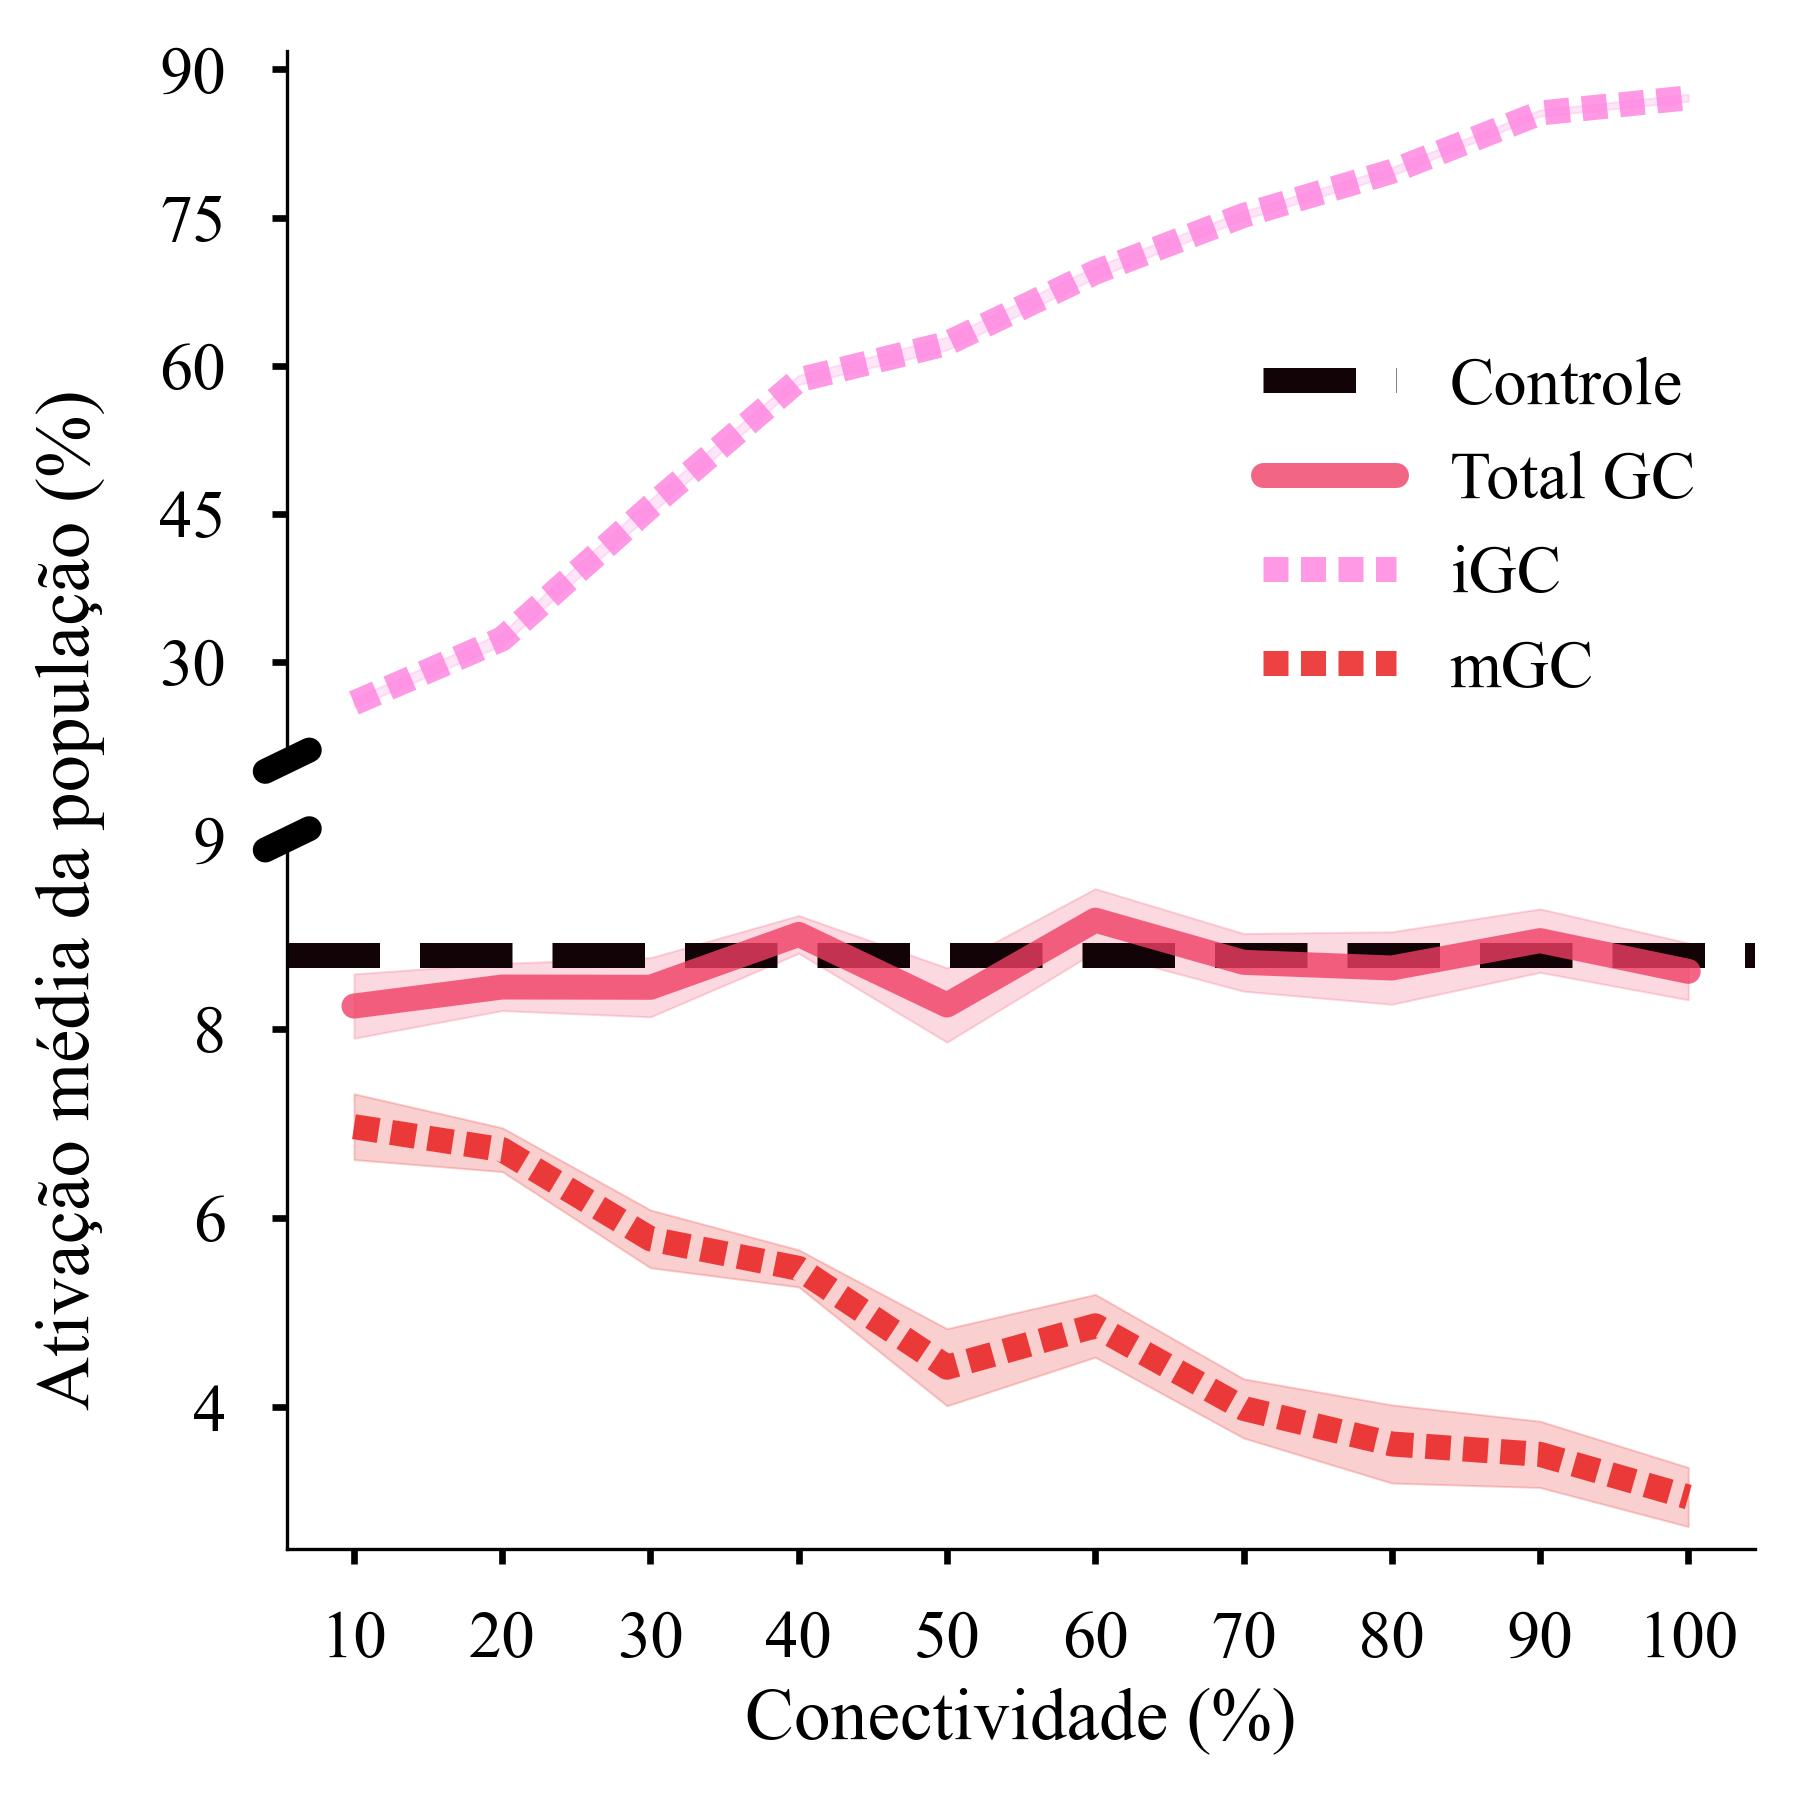
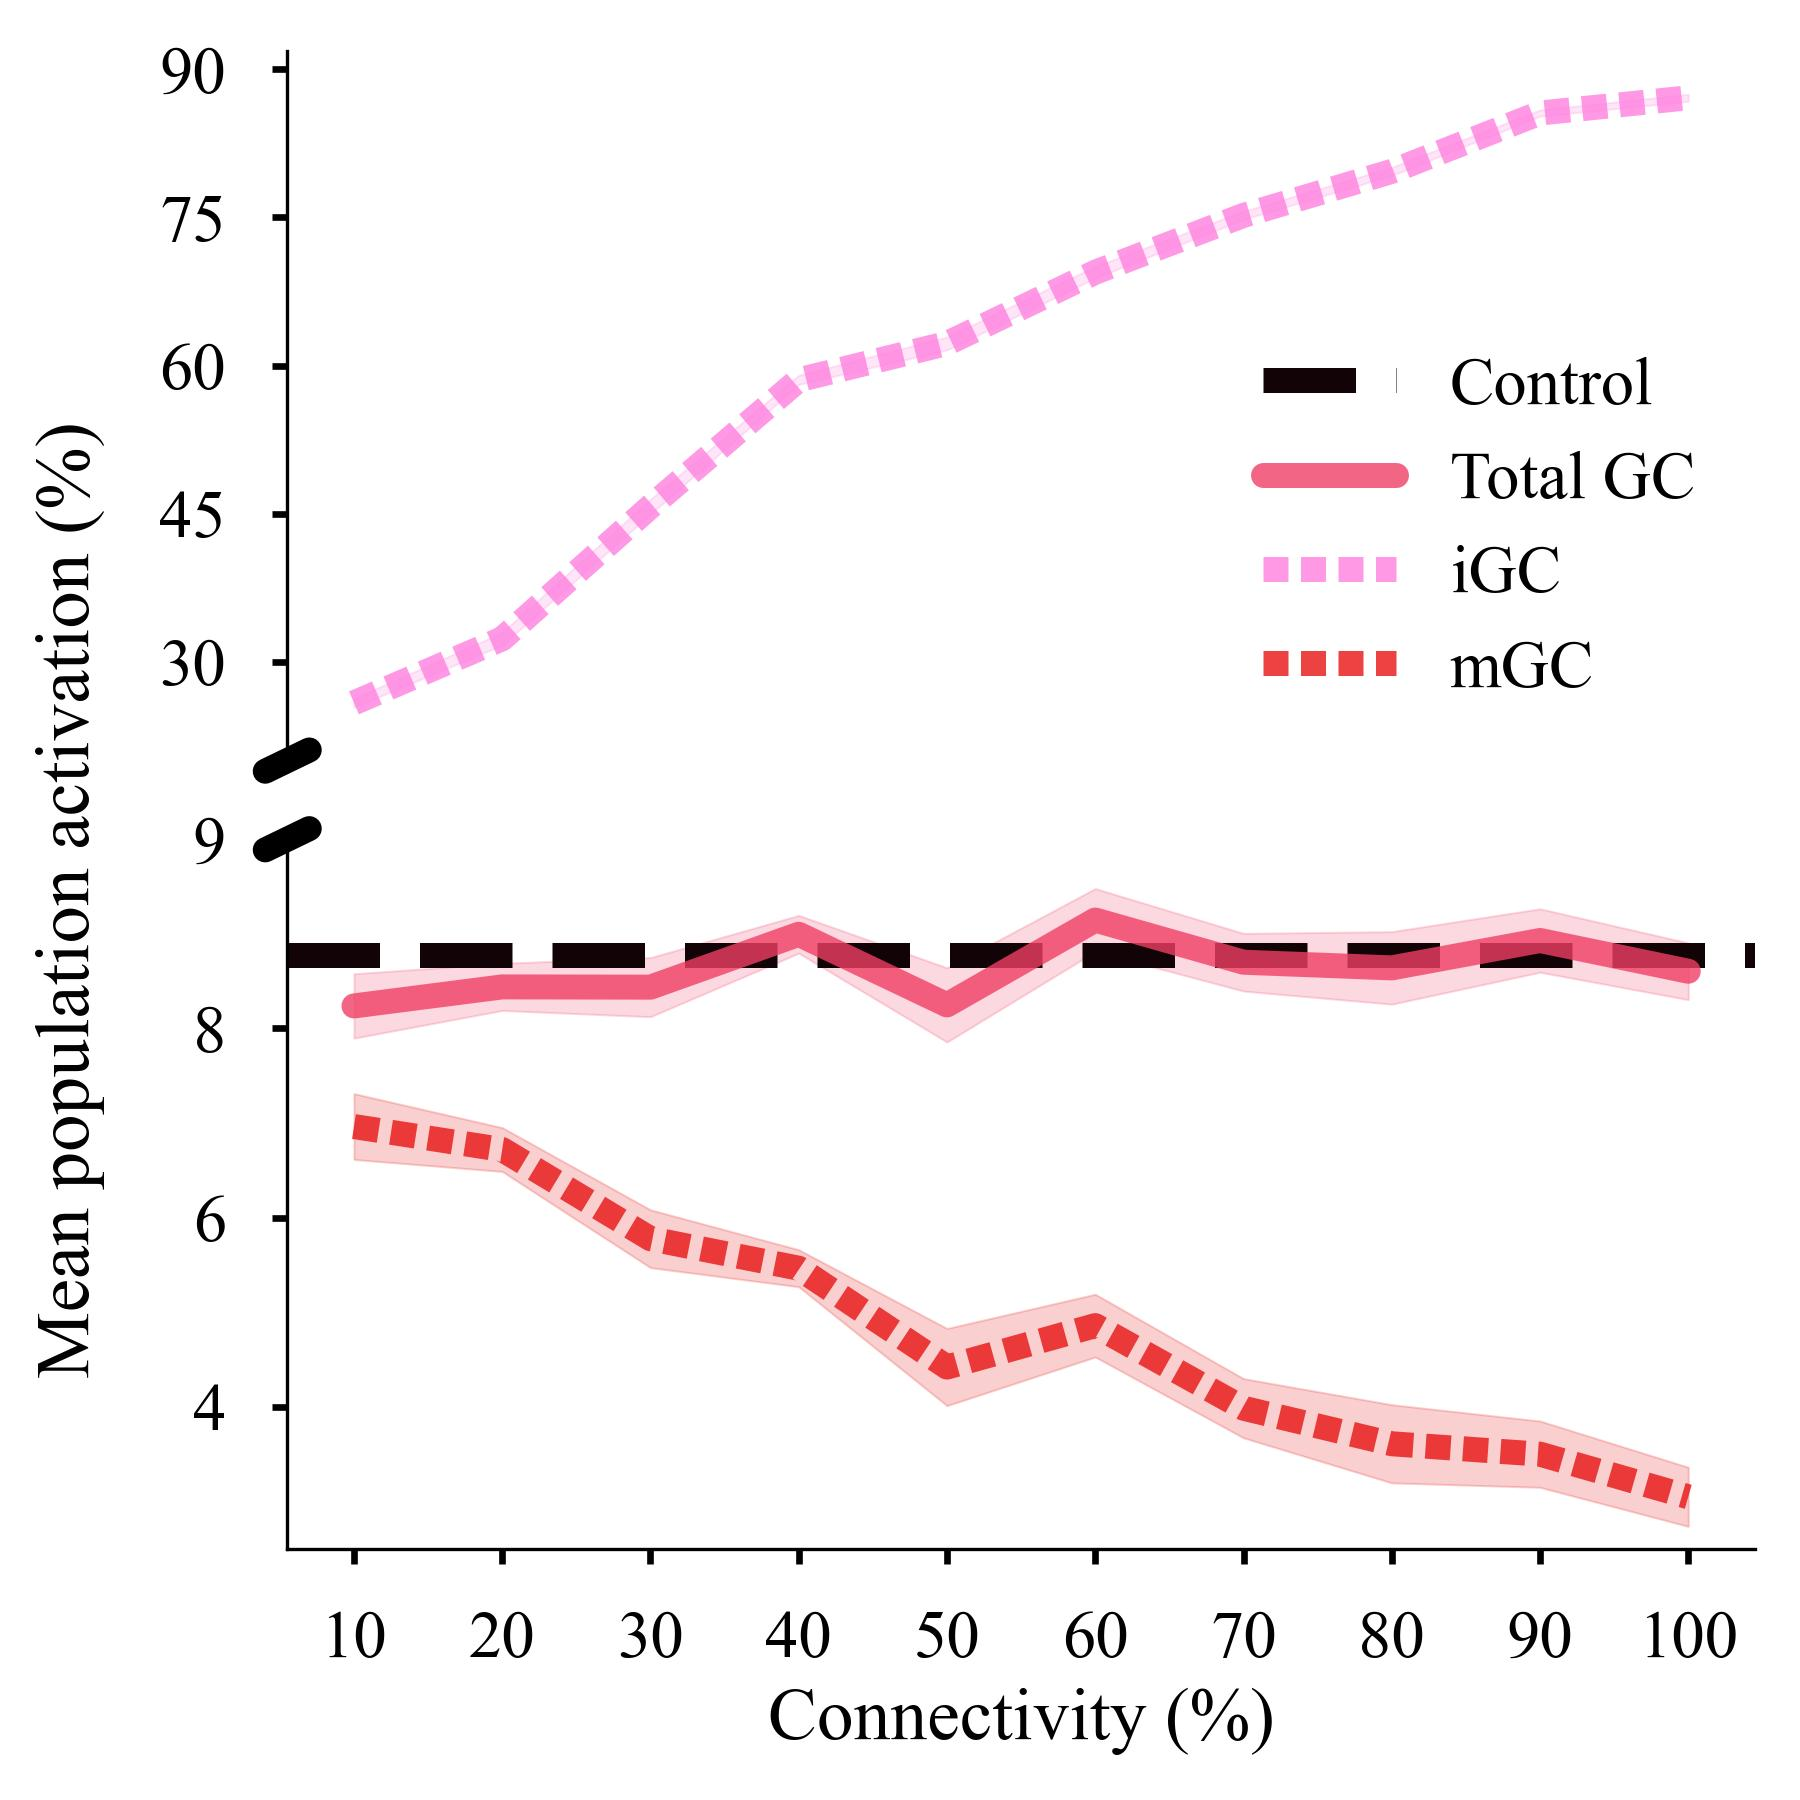
en plots

Changed region(s): [[0.0, 0.2178, 0.0622, 0.7778], [0.4044, 0.9333, 0.7156, 0.9644]]

diff --git a/scripts/data/pca3_variance_partitioning.py b/scripts/data/pca3_variance_partitioning.py
@@ -133,8 +133,8 @@ def plot():
         ax.fill_between(x, r2[p] - sem[p], r2[p] + sem[p], color=pred_colors[p], alpha=0.15)
     ax.fill_between(x, r2['full'] - sem['full'], r2['full'] + sem['full'],
                     color=pred_colors['full'], alpha=0.15)
-    ax.set_xlabel('Conectividade (%)')
-    ax.set_ylabel('R² (var. pCA3 explicada)')
+    ax.set_xlabel('Connectivity (%)')
+    ax.set_ylabel('R² (explained pCA3 var.)')
     ax.set_xticks(range(10, 101, 10))
     ax.set_ylim(0, 1)
     ax.spines['right'].set_visible(False)
@@ -146,10 +146,10 @@ def plot():
     stack_data   = [np.clip(uniq[p], 0, None) for p in PREDICTORS]
     stack_data.append(np.clip(shared, 0, None))
     stack_colors = [pred_colors[p] for p in PREDICTORS] + [SHARED_COLOR]
-    stack_labels = [f'Exclusivo {p.upper()}' for p in PREDICTORS] + ['Compartilhado']
+    stack_labels = [f'Unique {p.upper()}' for p in PREDICTORS] + ['Shared']
     ax.stackplot(x, *stack_data, labels=stack_labels, colors=stack_colors, alpha=0.8)
-    ax.set_xlabel('Conectividade (%)')
-    ax.set_ylabel('R² particionado')
+    ax.set_xlabel('Connectivity (%)')
+    ax.set_ylabel('Partitioned R²')
     ax.set_xticks(range(10, 101, 10))
     ax.set_ylim(0, 1)
     ax.spines['right'].set_visible(False)

diff --git a/scripts/data/avg_activity_ca3.py b/scripts/data/avg_activity_ca3.py
@@ -60,8 +60,9 @@ def avg_activity_ca3():
   fig, ax = plt.subplots(figsize=(6, 6), dpi=300)
 
   ax.yaxis.set_major_locator(MaxNLocator(nbins=15))
-  formatter = FuncFormatter(lambda y, _: f'{y*100:.0f}')
+  formatter = FuncFormatter(lambda y, _: f'{y*100.0:.1f}')
   ax.yaxis.set_major_formatter(formatter)
+  print(cads)
 
   cads = [cads[group] for group in groups]
   std_errors_c = [std_errors_c[group] for group in groups]
@@ -79,10 +80,15 @@ def avg_activity_ca3():
   ax.spines['right'].set_visible(False)
   ax.spines['top'].set_visible(False)
 
+  max_val = np.max(cads_arr)
+  min_val = np.min(cads_arr)
+  pad = 0.25
+  ax.set_ylim((1-pad) * min_val, (1+pad) * max_val)
+
   ax.legend(frameon=False)
 
-  plt.ylabel('Ativação média da população (%)')
-  plt.xlabel('Conectividade (%)')
+  plt.ylabel('Mean population activation (%)')
+  plt.xlabel('Connectivity (%)')
 
   xlabels = range(10, 101, 10)
   plt.xticks(ticks=range(len(xlabels)), labels=xlabels)

diff --git a/scripts/data/pattern_separation_overlap.py b/scripts/data/pattern_separation_overlap.py
@@ -73,7 +73,7 @@ def plot():
     sems, sems_i, sems_m = np.array(sems), np.array(sems_i), np.array(sems_m)
 
     fig, ax = plt.subplots(figsize=(6, 6), dpi=300)
-    ax.axhline(y=control_sd, color=cell_colors['control'], linestyle='--', label='controle')
+    ax.axhline(y=control_sd, color=cell_colors['control'], linestyle='--', label='Control')
     ax.axhline(y=0, color='gray', linestyle='--')
 
     alpha = 0.8
@@ -89,8 +89,8 @@ def plot():
 
     ax.spines['right'].set_visible(False)
     ax.spines['top'].set_visible(False)
-    ax.set_xlabel('Conectividade (%)')
-    ax.set_ylabel('Poder de separação de padrões (SP, %)')
+    ax.set_xlabel('Connectivity (%)')
+    ax.set_ylabel('Pattern separation: power (SP, %)')
     ax.set_xticks(range(10, 101, 10))
     ax.legend(loc='upper left', bbox_to_anchor=(0, 1.15), frameon=False)
     plt.tight_layout()

diff --git a/scripts/data/pattern_separation.py b/scripts/data/pattern_separation.py
@@ -132,7 +132,7 @@ def in_similarity():
       if group in groups_to_skip:
         alpha = 0.05
 
-    label = 'Controle' if 'control' in group else f'Neurogênese: {int(float(group.split("_")[1])*100)}% de conectividade'
+    label = 'Control' if 'control' in group else f'Neurogenesis: {int(float(group.split("_")[1])*100)}% connectivity'
     label = label if not group in groups_to_skip else None
     plt.plot(in_sim, sd, color=color, alpha=alpha, label=label)
 
@@ -168,8 +168,8 @@ def in_similarity():
 
   plt.xticks(ticks=np.arange(0.1, 1.1, 0.1))
 
-  plt.xlabel('Similaridade de entrada (%)')
-  plt.ylabel('Grau de separação de padrões ($\\mathcal{S}_D$)')
+  plt.xlabel('Input similarity (%)')
+  plt.ylabel('Pattern separation degree ($\\mathcal{S}_D$)')
   plt.legend(frameon=False)
 
   plt.tight_layout()

diff --git a/scripts/data/avg_activity_broken.py b/scripts/data/avg_activity_broken.py
@@ -125,7 +125,7 @@ def in_similarity():
   std_errors_m = [std_errors_m[group] for group in groups]
 
   for axis in [ax, ax2]:
-    axis.axhline(y=ads[0], color=cell_colors['control'], linestyle='--', label='Controle')
+    axis.axhline(y=ads[0], color=cell_colors['control'], linestyle='--', label='Control')
 
   ng_groups = groups[1:]
   
@@ -197,8 +197,8 @@ def in_similarity():
 
   ax.legend(frameon=False)
 
-  fig.supylabel('Ativação média da população (%)', fontsize=18)
-  plt.xlabel('Conectividade (%)')
+  fig.supylabel('Mean population activation (%)', fontsize=18)
+  plt.xlabel('Connectivity (%)')
 
   xlabels = range(10, 101, 10)
   # xlabels = np.array(xlabels) / 100

diff --git a/scripts/data/pattern_separation_cosine.py b/scripts/data/pattern_separation_cosine.py
@@ -93,8 +93,8 @@ def plot():
 
     ax.spines['right'].set_visible(False)
     ax.spines['top'].set_visible(False)
-    ax.set_xlabel('Conectividade (%)')
-    ax.set_ylabel('Separação de padrões — distância cosseno ($d_{cos}$)')
+    ax.set_xlabel('Connectivity (%)')
+    ax.set_ylabel('Pattern separation: cosine distance ($d_{cos}$)')
     ax.set_xticks(range(10, 101, 10))
     ax.legend(loc='upper left', bbox_to_anchor=(0, 1.15), frameon=False)
     plt.tight_layout()

diff --git a/scripts/data/pattern_separation_hamming.py b/scripts/data/pattern_separation_hamming.py
@@ -84,8 +84,8 @@ def plot():
 
     ax.spines['right'].set_visible(False)
     ax.spines['top'].set_visible(False)
-    ax.set_xlabel('Conectividade (%)')
-    ax.set_ylabel('Separação de padrões — distância Hamming ($d_H$)')
+    ax.set_xlabel('Connectivity (%)')
+    ax.set_ylabel('Pattern separation: Hamming distance ($d_H$)')
     ax.set_xticks(range(10, 101, 10))
     ax.legend(loc='upper left', bbox_to_anchor=(0, 1.15), frameon=False)
     plt.tight_layout()

diff --git a/scripts/data/avg_activity.py b/scripts/data/avg_activity.py
@@ -199,8 +199,8 @@ def in_similarity():
   sm = plt.cm.ScalarMappable(cmap=cmap, norm=plt.Normalize(vmin=0.1, vmax=1.0))
   sm.set_array([])
 
-  plt.ylabel('Ativação média da população (%)')
-  plt.xlabel('Conectividade (%)')
+  plt.ylabel('Mean population activation (%)')
+  plt.xlabel('Connectivity (%)')
 
   xlabels = range(10, 101, 10)
   # xlabels = range(10, 31, 10)

diff --git a/scripts/data/sparsity.py b/scripts/data/sparsity.py
@@ -106,7 +106,7 @@ def plot_sparsity():
         xlabels = range(10, 10 * len(ng_groups) + 1, 10)
         ax.set_xticks(range(len(ng_groups)))
         ax.set_xticklabels(xlabels)
-        ax.set_xlabel('Conectividade (%)')
+        ax.set_xlabel('Connectivity (%)')
         ax.set_ylabel(ylabel)
         ax.legend(frameon=False)
         ax.spines['right'].set_visible(False)
